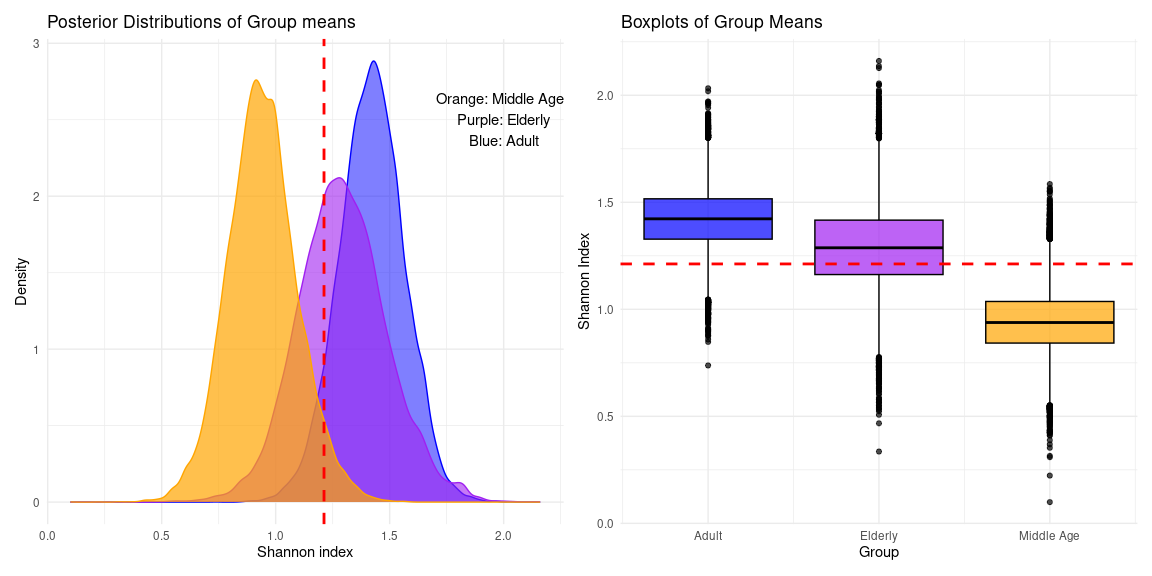
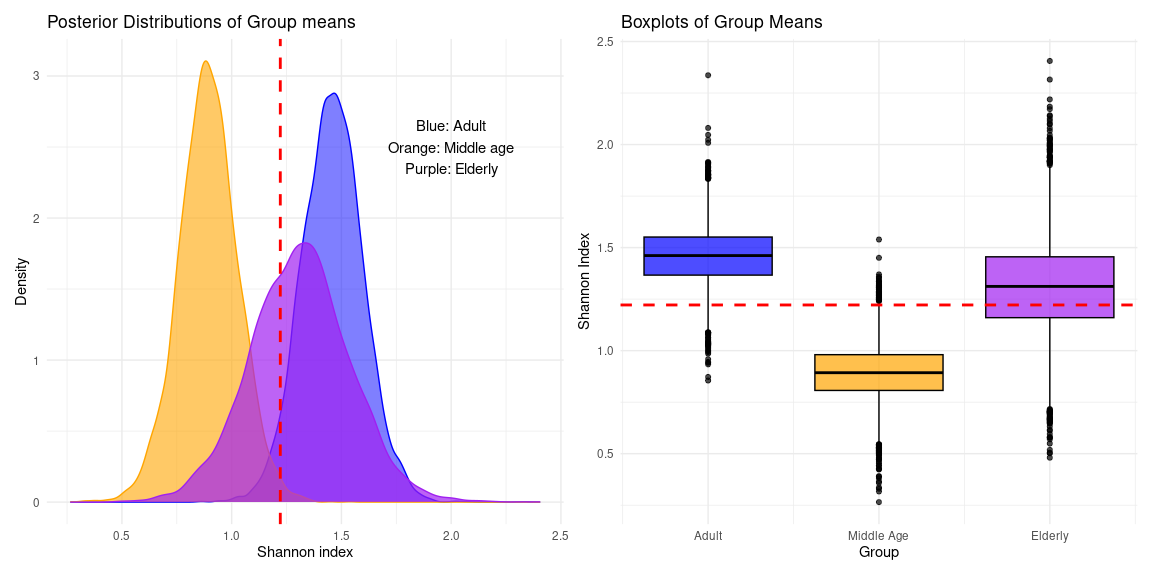
Render .md report

diff --git a/multi_group_alt-bayes.md b/multi_group_alt-bayes.md
@@ -5,7 +5,10 @@ Rasmus Hindström
 - [0. Summary](#0-summary)
 - [1. Data preparation](#1-data-preparation)
 - [2. Model fitting](#2-model-fitting)
-- [3. Classical approach](#3-classical-approach)
+- [3. Classical approachs to multi-group
+  testing](#3-classical-approachs-to-multi-group-testing)
+  - [3.1. ANOVA](#31-anova)
+  - [3.2. Kruskal-Wallis](#32-kruskal-wallis)
 - [4. Conclusions](#4-conclusions)
 
 # 0. Summary
@@ -43,6 +46,9 @@ The model is fitted using the `brm` function from the `brms` package.
 Reponse variable is the Shannon index, and the grouping variable is the
 3 classes of `age`; `Adult`, `Middle_age`, and `Elderly`.
 
+The model is parametrized with the group `Adult` as the baseline to
+which others are compared to.
+
 Model definition is as follows:
 
 $$
@@ -54,7 +60,7 @@ $$
 $$
 
 $$
-\sigma_k = \gamma + \gamma_k
+\sigma_k = \gamma_0 + \gamma_k
 $$
 
 *Default priors used by `brm()`*
@@ -64,73 +70,59 @@ $$
 $$ $$
 \beta_0 \sim \text{t}(3, 1.3, 2.5)
 $$ $$
-\beta_k, \sigma \sim \text{t}(3, 0, 2.5)
+\gamma_0 \sim \text{t}(3, 0, 2.5)
+$$
+
+$$
+\beta_k, \gamma_k \sim \mathrm{Uniform}
 $$
 
 ``` r
 # Model with partial pooling
 fit <- brm(
     formula = bf(
-        shannon ~ 1 +(1|Age),
-        sigma ~ 1 + (1|Age)
+        shannon ~ Age,
+        sigma ~ Age
     ),
     data = df,
     family = student(),
-    iter = 8000,
-    chains = 6,
-    cores = 6
+    iter = 4000,
+    chains = 4,
+    cores = 4
 ) 
 ```
 
-    Warning: Parts of the model have not converged (some Rhats are > 1.05). Be
-    careful when analysing the results! We recommend running more iterations and/or
-    setting stronger priors.
-
-    Warning: There were 763 divergent transitions after warmup. Increasing
-    adapt_delta above 0.8 may help. See
-    http://mc-stan.org/misc/warnings.html#divergent-transitions-after-warmup
-
      Family: student 
       Links: mu = identity; sigma = log; nu = identity 
-    Formula: shannon ~ 1 + (1 | Age) 
-             sigma ~ 1 + (1 | Age)
+    Formula: shannon ~ Age 
+             sigma ~ Age
        Data: df (Number of observations: 58) 
-      Draws: 6 chains, each with iter = 8000; warmup = 4000; thin = 1;
-             total post-warmup draws = 24000
-
-    Multilevel Hyperparameters:
-    ~Age (Number of levels: 3) 
-                        Estimate Est.Error l-95% CI u-95% CI Rhat Bulk_ESS Tail_ESS
-    sd(Intercept)           0.73      0.67     0.08     2.63 1.03      261      158
-    sd(sigma_Intercept)     0.54      0.53     0.03     2.09 1.01     1481     1298
+      Draws: 4 chains, each with iter = 4000; warmup = 2000; thin = 1;
+             total post-warmup draws = 8000
 
     Regression Coefficients:
-                    Estimate Est.Error l-95% CI u-95% CI Rhat Bulk_ESS Tail_ESS
-    Intercept           1.21      0.63    -0.60     2.97 1.06      108       37
-    sigma_Intercept    -0.41      0.38    -1.22     0.47 1.01     1829     1085
+                        Estimate Est.Error l-95% CI u-95% CI Rhat Bulk_ESS Tail_ESS
+    Intercept               1.46      0.14     1.19     1.74 1.00     9187     6229
+    sigma_Intercept        -0.44      0.17    -0.76    -0.11 1.00     8043     5790
+    AgeElderly             -0.15      0.27    -0.67     0.37 1.00     8341     6213
+    AgeMiddle_age          -0.57      0.19    -0.95    -0.19 1.00     8836     6698
+    sigma_AgeElderly        0.33      0.25    -0.15     0.83 1.00     9327     6510
+    sigma_AgeMiddle_age    -0.27      0.26    -0.76     0.26 1.00     8483     6358
 
     Further Distributional Parameters:
        Estimate Est.Error l-95% CI u-95% CI Rhat Bulk_ESS Tail_ESS
-    nu    23.52     14.05     5.78    58.82 1.00     2964     9993
+    nu    24.40     14.71     5.70    60.36 1.00     9088     5644
 
     Draws were sampled using sampling(NUTS). For each parameter, Bulk_ESS
     and Tail_ESS are effective sample size measures, and Rhat is the potential
     scale reduction factor on split chains (at convergence, Rhat = 1).
 
-    $Age
-    , , Intercept
+Interpreting the coefficients and 95% CI we can already make the
+observation that the groups `Adult` and `Middle age` differ. The
+`Middle age` group appears to have a lower Shannon diversity.
 
-                Estimate Est.Error      Q2.5    Q97.5
-    Adult      1.4213551 0.1425302 1.1387549 1.695379
-    Elderly    1.2928381 0.1948622 0.9211176 1.691304
-    Middle_age 0.9422978 0.1515308 0.6514824 1.254537
-
-    , , sigma_Intercept
-
-                 Estimate Est.Error       Q2.5      Q97.5
-    Adult      -0.4323398 0.1579523 -0.7366740 -0.1198411
-    Elderly    -0.1994206 0.1805728 -0.5266161  0.1814123
-    Middle_age -0.6186283 0.2031259 -1.0050134 -0.2308628
+Further plotting is required to make conclusions on other pair wise
+comparisons.
 
 <details class="code-fold">
 <summary>Posterior plotting</summary>
@@ -140,18 +132,20 @@ library(ggplot2)
 library(patchwork)
 
 draws <- as_draws_df(fit)
+population <- c(draws$b_Intercept, draws$b_Intercept + draws$b_AgeMiddle_age,  draws$b_Intercept + draws$b_AgeElderly)
+pop_mean <- mean(population)
+
 plot_data <- data.frame(
-    population = draws$b_Intercept,
-    pop_mean = mean(draws$b_Intercept),
-    adult = draws$b_Intercept + draws$'r_Age[Adult,Intercept]',
-    elderly = draws$b_Intercept + draws$'r_Age[Elderly,Intercept]',
-    middle_age = draws$b_Intercept + draws$'r_Age[Middle_age,Intercept]'
+    pop_mean = pop_mean,
+    adult = draws$b_Intercept,
+    elderly = draws$b_Intercept + draws$b_AgeElderly,
+    middle_age = draws$b_Intercept + draws$b_AgeMiddle_age
 )
 
 p1 <- ggplot(data = plot_data) +
     geom_density(aes(x = adult), fill = "blue", alpha = 0.5, color = "blue") +
-    geom_density(aes(x = elderly), fill = "purple", alpha = 0.6, color = "purple") +
-    geom_density(aes(x = middle_age), fill = "orange", alpha = 0.7, color = "orange") +
+    geom_density(aes(x = middle_age), fill = "orange", alpha = 0.6, color = "orange") +
+    geom_density(aes(x = elderly), fill = "purple", alpha = 0.7, color = "purple") +
     geom_vline(xintercept = plot_data$pop_mean, linetype = "dashed", color = "red", linewidth = 1) +
     labs(
         title = "Posterior Distributions of Group means",
@@ -160,18 +154,18 @@ p1 <- ggplot(data = plot_data) +
     ) +
     annotate(
         "text", x = 2, y = 2.5,
-        label = "Orange: Middle Aged\nPurple: Elderly\nBlue: Adult",
+        label = "Blue: Adult\nOrange: Middle age\nPurple: Elderly"
     ) +
     theme_minimal()
 
 p2 <- ggplot(data = plot_data) +
     geom_boxplot(aes(y = adult, x = 1), fill = "blue", alpha = 0.7, color = "black") +
-    geom_boxplot(aes(y = elderly, x = 2), fill = "purple", alpha = 0.7, color = "black") +
-    geom_boxplot(aes(y = middle_age, x = 3), fill = "orange", alpha = 0.7, color = "black") +
+    geom_boxplot(aes(y = middle_age, x = 2), fill = "orange", alpha = 0.7, color = "black") +
+    geom_boxplot(aes(y = elderly, x = 3), fill = "purple", alpha = 0.7, color = "black") +
     geom_hline(yintercept = plot_data$pop_mean, linetype = "dashed", color = "red", linewidth = 1) +
     scale_x_continuous(
         breaks = c(1, 2, 3),
-        labels = c("Adult", "Elderly", "Middle Age")
+        labels = c("Adult", "Middle Age", "Elderly")
     ) +
     labs(
         title = "Boxplots of Group Means",
@@ -193,10 +187,73 @@ boxplots paint a clear picture of the higher overlap between the Adult
 and Edlerly group, while the Middle aged group differs. In both plots
 the red dashed line indicates the total population posterior mean.
 
-# 3. Classical approach
+# 3. Classical approachs to multi-group testing
 
-With classical methods multi group comparisons are often done in
-multiple steps.
+## 3.1. ANOVA
+
+ANOVA would be the closest classical alternative. Assumptions in ANOVA
+are normality and equal variance.
+
+``` r
+summary(aov(shannon ~ Age, data = df))
+```
+
+                Df Sum Sq Mean Sq F value Pr(>F)  
+    Age          2  3.188  1.5942   3.194 0.0487 *
+    Residuals   55 27.448  0.4991                 
+    ---
+    Signif. codes:  0 '***' 0.001 '**' 0.01 '*' 0.05 '.' 0.1 ' ' 1
+
+Our result inidcates that Age is a significant predictor on explaining
+differences in the Shannon index. After observing a significant result,
+it is typical to further inspect the data with a pairwise t-test.
+Another option is Tukey’s Honest Significant Difference (HSD). Both of
+which require adjusting p-values due to being post-hoc tests.
+
+``` r
+# Pairwise t-test 
+pairwise.t.test(df$shannon, df$Age, p.adjust = "fdr")
+```
+
+
+        Pairwise comparisons using t tests with pooled SD 
+
+    data:  df$shannon and df$Age 
+
+               Adult Elderly
+    Elderly    0.505 -      
+    Middle_age 0.047 0.132  
+
+    P value adjustment method: fdr 
+
+``` r
+# HSD
+TukeyHSD(aov(shannon ~ Age, data = df))
+```
+
+      Tukey multiple comparisons of means
+        95% family-wise confidence level
+
+    Fit: aov(formula = shannon ~ Age, data = df)
+
+    $Age
+                             diff        lwr         upr     p adj
+    Elderly-Adult      -0.1477303 -0.6783059  0.38284533 0.7814198
+    Middle_age-Adult   -0.5690925 -1.1182905 -0.01989461 0.0406666
+    Middle_age-Elderly -0.4213623 -1.0060281  0.16330359 0.2011258
+
+Both post-hoc tests point to the significant difference between the
+groups `Adult` and `Middle age`. In the pairwise t-test the difference
+between groups `Middle age` and `Elderly` approaches the significance
+boundry (p \< 0.05).
+
+## 3.2. Kruskal-Wallis
+
+Another option to ANOVA is the Kruskal-Wallis test. Kruskal-Wallis
+relaxes the assumption of normality. However, It also needs to be paired
+with a post-hoc test to infer paired differences after global
+significance has been tested. Kruskal-Wallis is typically paired with
+Dunn’s post-hoc test.
 
 ``` r
 kruskal.test(shannon ~ Age, df)
@@ -212,32 +269,37 @@ We get a p-value \< 0.05, so there are ‘significant’ differences within
 the groups.
 
 ``` r
-pairwise.wilcox.test(df$shannon, df$Age, p.adjust = "fdr")
+library(dunn.test)
+
+dunn.test(df$shannon, df$Age, method = "bh")
 ```
 
+      Kruskal-Wallis rank sum test
 
-        Pairwise comparisons using Wilcoxon rank sum exact test 
+    data: x and group
+    Kruskal-Wallis chi-squared = 7.7239, df = 2, p-value = 0.02
 
-    data:  df$shannon and df$Age 
+                               Comparison of x by group                            
+                                 (Benjamini-Hochberg)                              
+    Col Mean-|
+    Row Mean |      Adult    Elderly
+    ---------+----------------------
+     Elderly |   0.672628
+             |     0.2506
+             |
+    Middle_a |   2.733071   1.956873
+             |    0.0094*     0.0378
 
-               Adult  Elderly
-    Elderly    0.7154 -      
-    Middle_age 0.0056 0.1887 
+    alpha = 0.05
+    Reject Ho if p <= alpha/2
 
-    P value adjustment method: fdr 
-
-Post-hoc testing requires adjusting the p-values. Here we observe that
-the groups `Middle_age` and `Adult` have a significant difference. Other
-pairwise comparisons are not significant.
+Significant p-values, after adjustment, are reported for the comparison
+between groups `Adult` and `Middle age`.
 
 # 4. Conclusions
 
-Both the probabilistic and classical approach to multigroup testing
-gives the same result. The middle age group is signaled out. Contrasting
-the two methods, it is clear that the probabilistic approach gives a
-richer inference, with the added benefit of intuitive interpretation.
-
-Note: there are some warnings from the sampler of the probabilistic
-model, but Rhats are close to 1 and ESS are not too low, if we disregard
-the estimates for the sigma term. Some tweaks to the model definition
-might be required to get cleaner sampling.
+Both the probabilistic and classical approachs to multigroup testing
+give the same result. The `Middle age` group is signaled out.
+Contrasting the methods, it is clear that the probabilistic approach
+gives richer inference, with the added benefit of intuitive
+interpretation.
